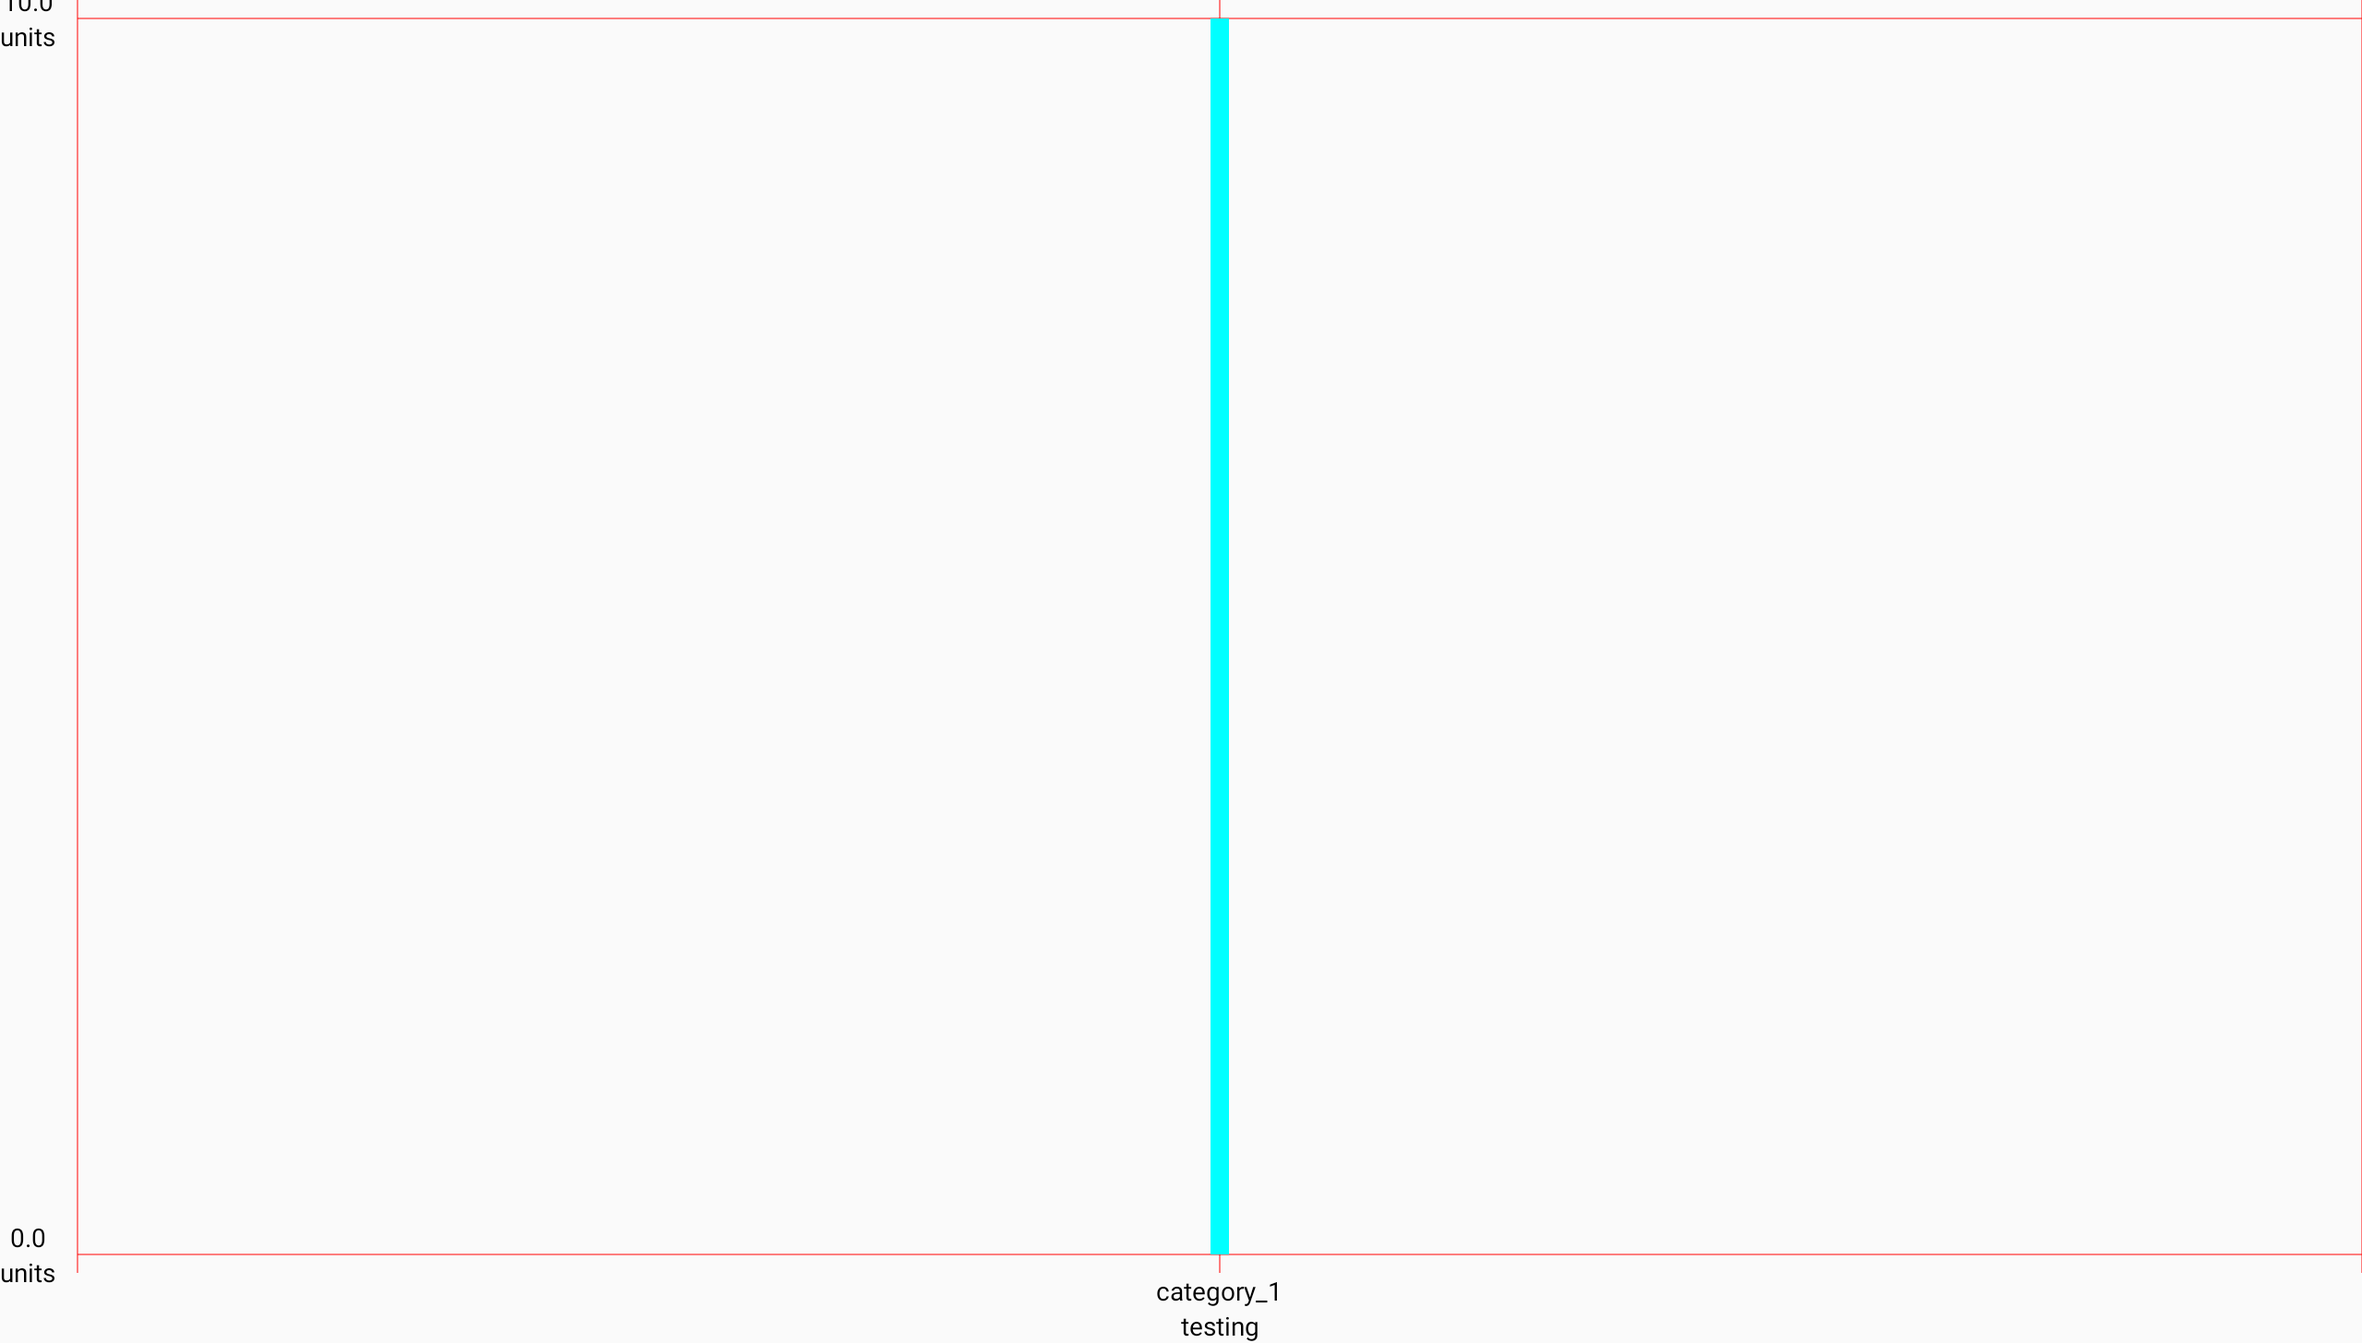
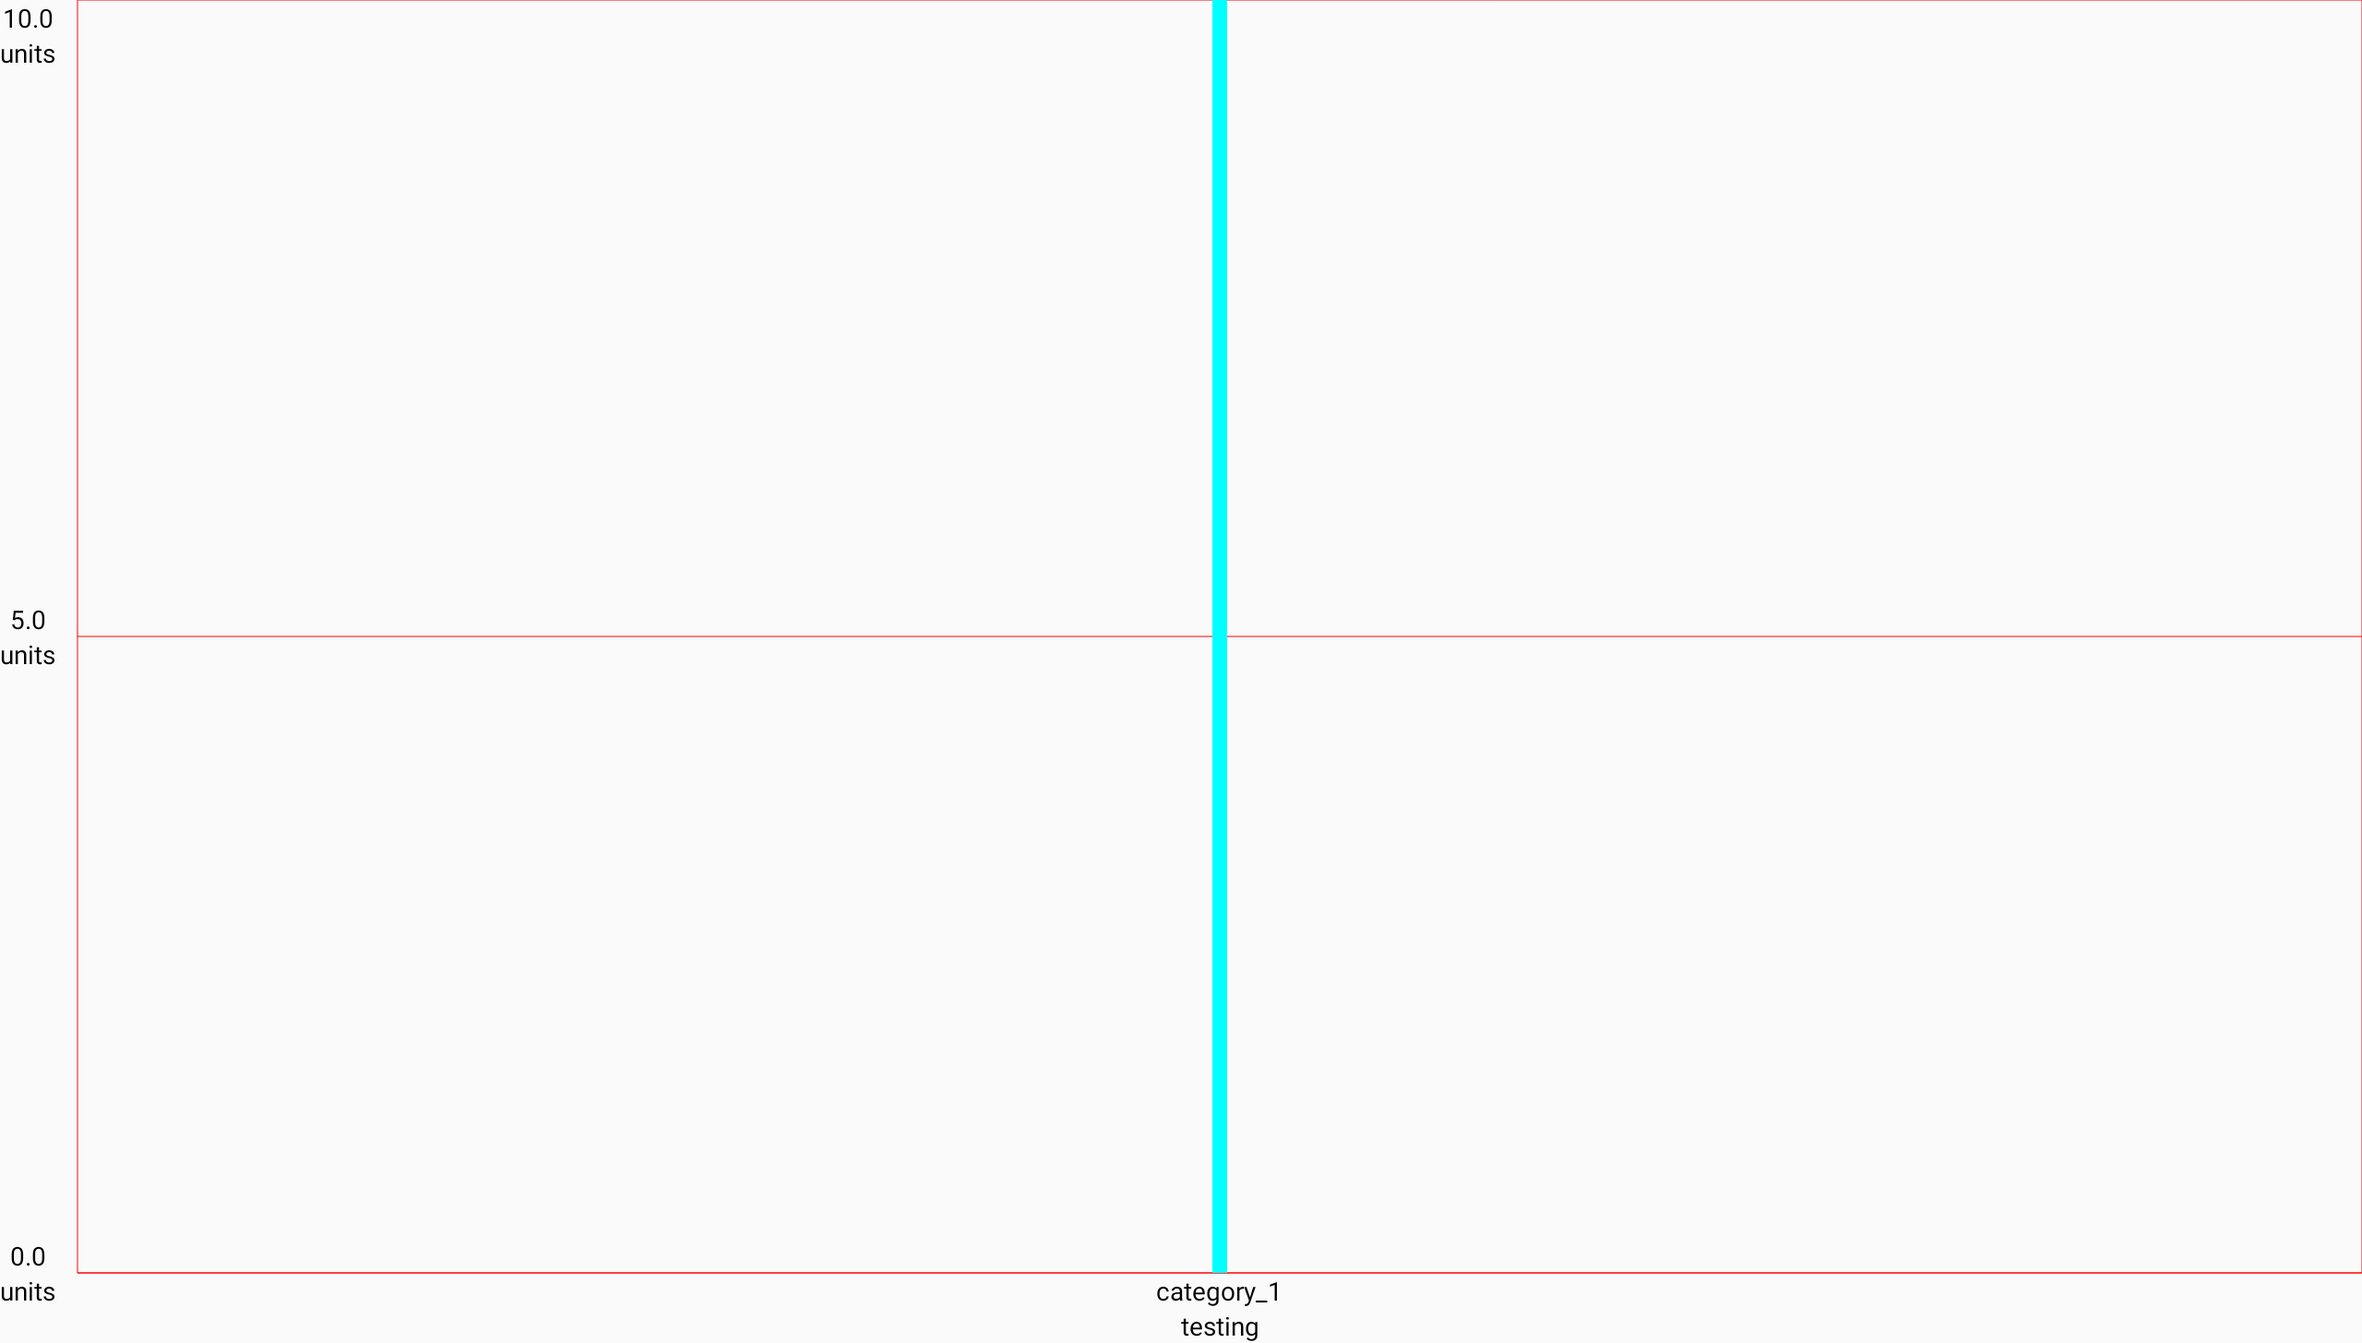
Fix bars staring from negative y values (#26)
* Fix issue with bars staring from negative y values

* Fix charts rounding

* Fixed line 0 calculation

* Change animation method in bar chart

* Change below zero rounding and update Barchart test screens

* Add comments for roundMinMaxClosestTo

* Fix tests

diff --git a/charts/src/commonMain/kotlin/com/netguru/multiplatform/charts/bar/BarChartDrawing.kt b/charts/src/commonMain/kotlin/com/netguru/multiplatform/charts/bar/BarChartDrawing.kt
@@ -4,18 +4,16 @@ import androidx.compose.ui.geometry.CornerRadius
 import androidx.compose.ui.geometry.Offset
 import androidx.compose.ui.geometry.Size
 import androidx.compose.ui.graphics.drawscope.DrawScope
-import kotlin.math.abs
+import com.netguru.multiplatform.charts.mapValueToDifferentRange
 
 internal fun DrawScope.drawBarChart(
     data: BarChartData,
     config: BarChartConfig,
     yAxisUpperValue: Float,
     yAxisLowerValue: Float,
-    verticalPadding: Float,
     valueScale: List<Float>,
+    yAxisZeroPosition: Float
 ) {
-    val canvasHeight = size.height
-
     val xAxisTickWidth = size.width / (data.categories.size * 2)
     val maxBarsCountInACluster = data.categories.maxOfOrNull { it.entries.size } ?: return
     val maximumThickness = config.thickness.toPx().coerceAtLeast(1f)
@@ -25,24 +23,32 @@ internal fun DrawScope.drawBarChart(
     val maxHorizontalSpacing = if (gapsCount > 0) freeSpaceInACluster / gapsCount else 0f
     val barsHorizontalSpacing = config.barsSpacing.toPx().coerceIn(0f, maxHorizontalSpacing)
 
-    val gridHeight = canvasHeight - 2 * verticalPadding
-    val yAxisZeroPosition = verticalPadding +
-        yAxisUpperValue / (yAxisUpperValue - yAxisLowerValue) * gridHeight
-
     data.categories.forEachIndexed { categoryIndex, category ->
         val clusterWidth = category.entries.size * barWidth +
             (category.entries.size - 1) * barsHorizontalSpacing
         val clusterXOffset = (categoryIndex * 2 + 1) * xAxisTickWidth - clusterWidth / 2
 
         category.entries.forEachIndexed { entryIndex, entry ->
-            val clusterHeight = gridHeight * valueScale[entryIndex]
-            val barHeight = abs(entry.y) / (yAxisUpperValue - yAxisLowerValue) * clusterHeight
+            val x = clusterXOffset + entryIndex * (barWidth + barsHorizontalSpacing)
+            val y = entry.y * valueScale[entryIndex]
+            val currentPosition = y.mapValueToDifferentRange(
+                yAxisLowerValue,
+                yAxisUpperValue,
+                size.height,
+                0f
+            )
+            val barHeight = if (currentPosition < yAxisZeroPosition) {
+                yAxisZeroPosition - currentPosition
+            } else {
+                currentPosition - yAxisZeroPosition
+            }
+
             drawRoundRect(
                 color = entry.color,
                 topLeft = Offset(
-                    x = clusterXOffset + entryIndex * (barWidth + barsHorizontalSpacing),
-                    y = if (entry.y >= 0) {
-                        yAxisZeroPosition - barHeight
+                    x = x,
+                    y = if (entry.y > 0) {
+                        currentPosition
                     } else {
                         yAxisZeroPosition
                     }

diff --git a/charts/src/commonMain/kotlin/com/netguru/multiplatform/charts/bar/BarChart.kt b/charts/src/commonMain/kotlin/com/netguru/multiplatform/charts/bar/BarChart.kt
@@ -40,7 +40,6 @@ import com.netguru.multiplatform.charts.theme.ChartTheme
  * @param yAxisLabel Composable to mark the values on the y-axis.
  * @param animation In the case of [ChartAnimation.Sequenced] items with the same index in each
  * category will animate together
- * @param maxHorizontalLinesCount Max number of lines that are allowed to draw for marking y-axis
  * values
  */
 @Composable
@@ -52,7 +51,6 @@ fun BarChart(
     xAxisLabel: @Composable (value: Any) -> Unit = GridDefaults.XAxisLabel,
     yAxisLabel: @Composable (value: Any) -> Unit = GridDefaults.YAxisLabel,
     animation: ChartAnimation = ChartAnimation.Simple(),
-    maxHorizontalLinesCount: Int = GridDefaults.NUMBER_OF_GRID_LINES,
 ) {
     val verticalLinesCount = remember(data) { data.maxX.toInt() + 1 }
     val horizontalLinesOffset =
@@ -94,17 +92,19 @@ fun BarChart(
                     .weight(1f)
                     .fillMaxWidth()
             ) {
+                val yAxisScale = YAxisScale(
+                    min = data.minY,
+                    max = data.maxY,
+                    maxTickCount = config.maxHorizontalLinesCount,
+                    roundClosestTo = config.roundMinMaxClosestTo,
+                )
                 val grid = measureChartGrid(
                     xAxisScale = FixedTicksXAxisScale(
                         min = data.minX,
                         max = data.maxX,
                         tickCount = verticalLinesCount - 1
                     ),
-                    yAxisScale = YAxisScale(
-                        min = data.minY,
-                        max = data.maxY,
-                        maxTickCount = maxHorizontalLinesCount - 1
-                    ),
+                    yAxisScale = yAxisScale,
                     horizontalLinesOffset = horizontalLinesOffset
                 )
                 verticalGridLines = grid.verticalLines
@@ -114,10 +114,10 @@ fun BarChart(
                 drawBarChart(
                     data = data,
                     config = config,
-                    yAxisUpperValue = grid.horizontalLines.last().value.toFloat(),
-                    yAxisLowerValue = grid.horizontalLines.first().value.toFloat(),
-                    verticalPadding = horizontalLinesOffset.toPx(),
+                    yAxisUpperValue = yAxisScale.max,
+                    yAxisLowerValue = yAxisScale.min,
                     valueScale = valueScale,
+                    yAxisZeroPosition = grid.zeroPosition.position,
                 )
             }
 

diff --git a/charts/src/commonMain/kotlin/com/netguru/multiplatform/charts/line/LineChart.kt b/charts/src/commonMain/kotlin/com/netguru/multiplatform/charts/line/LineChart.kt
@@ -62,6 +62,7 @@ val dashedPathEffect = PathEffect.dashPathEffect(floatArrayOf(5f, 5f), 0f)
  * @param animation Animation to use
  * @param maxVerticalLines Max number of lines, representing the x-axis values
  * @param maxHorizontalLines Max number of lines, representing the y-axis values
+ * @param roundMinMaxClosestTo Number to which min and max range will be rounded to
  */
 @OptIn(ExperimentalComposeUiApi::class)
 @Composable
@@ -76,6 +77,7 @@ fun LineChart(
     animation: ChartAnimation = ChartAnimation.Simple(),
     maxVerticalLines: Int = GridDefaults.NUMBER_OF_GRID_LINES,
     maxHorizontalLines: Int = GridDefaults.NUMBER_OF_GRID_LINES,
+    roundMinMaxClosestTo: Int = GridDefaults.ROUND_MIN_MAX_CLOSEST_TO,
 ) {
     var touchPositionX by remember { mutableStateOf(-1f) }
     var verticalGridLines by remember { mutableStateOf(emptyList<LineParameters>()) }
@@ -125,7 +127,8 @@ fun LineChart(
                             yAxisScale = YAxisScale(
                                 min = lineChartData.minY,
                                 max = lineChartData.maxY,
-                                maxTickCount = maxHorizontalLines - 1
+                                maxTickCount = maxHorizontalLines - 1,
+                                roundClosestTo = roundMinMaxClosestTo,
                             ),
                             horizontalLinesOffset = horizontalLinesOffset
                         )

diff --git a/charts/src/commonMain/kotlin/com/netguru/multiplatform/charts/grid/GridChartDrawing.kt b/charts/src/commonMain/kotlin/com/netguru/multiplatform/charts/grid/GridChartDrawing.kt
@@ -17,6 +17,12 @@ fun DrawScope.drawChartGrid(grid: ChartGrid, color: Color) {
             strokeWidth = 1f
         )
     }
+    drawLine(
+        color = color,
+        start = Offset(0f, grid.zeroPosition.position),
+        end = Offset(size.width, grid.zeroPosition.position),
+        strokeWidth = 1f
+    )
     grid.verticalLines.forEach {
         drawLine(
             color = color,
@@ -35,8 +41,8 @@ fun DrawScope.measureChartGrid(
 
     val horizontalLines = measureHorizontalLines(
         axisScale = yAxisScale,
-        startPosition = size.height - horizontalLinesOffset.toPx(),
-        endPosition = horizontalLinesOffset.toPx()
+        startPosition = size.height,
+        endPosition = 0f
     )
 
     val verticalLines = measureVerticalLines(
@@ -45,9 +51,23 @@ fun DrawScope.measureChartGrid(
         endPosition = size.width
     )
 
+    val zero = when {
+        yAxisScale.min > 0 -> yAxisScale.min
+        yAxisScale.max < 0 -> yAxisScale.max
+        else -> 0f
+    }
     return ChartGrid(
         verticalLines = verticalLines,
-        horizontalLines = horizontalLines
+        horizontalLines = horizontalLines,
+        zeroPosition = LineParameters(
+            zero.mapValueToDifferentRange(
+                yAxisScale.min,
+                yAxisScale.max,
+                size.height,
+                0f
+            ),
+            zero
+        )
     )
 }
 

diff --git a/charts/src/commonMain/kotlin/com/netguru/multiplatform/charts/grid/axisscale/YAxisScale.kt b/charts/src/commonMain/kotlin/com/netguru/multiplatform/charts/grid/axisscale/YAxisScale.kt
@@ -4,17 +4,36 @@ import kotlin.math.floor
 import kotlin.math.log10
 import kotlin.math.pow
 
-class YAxisScale(min: Float, max: Float, maxTickCount: Int) {
+class YAxisScale(
+    min: Float,
+    max: Float,
+    maxTickCount: Int,
+    roundClosestTo: Int,
+) {
     val tick: Float
     val min: Float
     val max: Float
 
     init {
-        val range = niceNum(max - min, false)
-        this.tick = niceNum(range / (maxTickCount), true)
+        this.min = if (!min.isNaN()) {
+            min.getClosest(roundClosestTo)
+        } else {
+            0f
+        }
+        this.max = if (!max.isNaN()) {
+            max.getClosest(roundClosestTo)
+        } else {
+            0f
+        }
 
-        this.min = if (!min.isNaN()) min else 0f
-        this.max = if (!max.isNaN()) max else 0f
+        val range = niceNum(this.max - this.min, false)
+        this.tick = niceNum(range / (maxTickCount), true)
+    }
+
+    private fun Float.getClosest(n: Int) = when {
+        this > 0f -> (((this.toInt() + n - 1) / n) * n).toFloat()
+        this < 0f -> (((this.toInt() - n + 1) / n) * n).toFloat()
+        else -> 0f
     }
 
     /**

diff --git a/charts/src/commonMain/kotlin/com/netguru/multiplatform/charts/bar/BarChartConfig.kt b/charts/src/commonMain/kotlin/com/netguru/multiplatform/charts/bar/BarChartConfig.kt
@@ -2,6 +2,7 @@ package com.netguru.multiplatform.charts.bar
 
 import androidx.compose.runtime.Immutable
 import androidx.compose.ui.unit.Dp
+import com.netguru.multiplatform.charts.grid.GridDefaults
 
 /**
  * The customization parameters for [BarChart]
@@ -9,10 +10,14 @@ import androidx.compose.ui.unit.Dp
  * @param thickness Width of a single bar
  * @param cornerRadius 0 for square bars, thickness/2 for fully rounded corners
  * @param barsSpacing The space between bars in a cluster
+ * @param maxHorizontalLinesCount Max number of lines that are allowed to draw for marking y-axis
+ * @param roundMinMaxClosestTo Number to which min and max range will be rounded to
  */
 @Immutable
 data class BarChartConfig(
     val thickness: Dp = BarChartDefaults.BAR_THICKNESS,
     val cornerRadius: Dp = BarChartDefaults.BAR_CORNER_RADIUS,
     val barsSpacing: Dp = BarChartDefaults.BAR_HORIZONTAL_SPACING,
+    val maxHorizontalLinesCount: Int = GridDefaults.NUMBER_OF_GRID_LINES,
+    val roundMinMaxClosestTo: Int = GridDefaults.ROUND_MIN_MAX_CLOSEST_TO,
 )

diff --git a/charts/src/commonMain/kotlin/com/netguru/multiplatform/charts/bar/BarChartWithLegend.kt b/charts/src/commonMain/kotlin/com/netguru/multiplatform/charts/bar/BarChartWithLegend.kt
@@ -20,7 +20,6 @@ import com.netguru.multiplatform.charts.theme.ChartTheme
 fun BarChartWithLegend(
     data: BarChartData,
     modifier: Modifier = Modifier,
-    maxHorizontalLinesCount: Int = GridDefaults.NUMBER_OF_GRID_LINES,
     animation: ChartAnimation = ChartAnimation.Simple(),
     colors: BarChartColors = ChartTheme.colors.barChartColors,
     config: BarChartConfig = BarChartConfig(),
@@ -32,7 +31,6 @@ fun BarChartWithLegend(
         BarChart(
             modifier = Modifier.weight(1f),
             data = data,
-            maxHorizontalLinesCount = maxHorizontalLinesCount,
             animation = animation,
             colors = colors,
             config = config,

diff --git a/example-app/android/src/androidTest/kotlin/com/netguru/multiplatform/charts/bar/BarWithLegendTest.kt b/example-app/android/src/androidTest/kotlin/com/netguru/multiplatform/charts/bar/BarWithLegendTest.kt
@@ -30,7 +30,8 @@ class BarWithLegendTest : ScreenshotTest {
                 config = BarChartConfig(
                     thickness = 8.dp,
                     cornerRadius = 0.dp,
-                    barsSpacing = 1.dp
+                    barsSpacing = 1.dp,
+                    maxHorizontalLinesCount = 2,
                 )
             )
         }
@@ -63,7 +64,6 @@ class BarWithLegendTest : ScreenshotTest {
                         Text(text = "units")
                     }
                 },
-                maxHorizontalLinesCount = 2,
                 legendItemLabel = {
                     Text(text = "Custom label for: $it")
                 }

diff --git a/example-app/android/src/androidTest/kotlin/com/netguru/multiplatform/charts/bar/BarTest.kt b/example-app/android/src/androidTest/kotlin/com/netguru/multiplatform/charts/bar/BarTest.kt
@@ -40,7 +40,8 @@ class BarTest : ScreenshotTest {
                 config = BarChartConfig(
                     thickness = 8.dp,
                     cornerRadius = 0.dp,
-                    barsSpacing = 1.dp
+                    barsSpacing = 1.dp,
+                    maxHorizontalLinesCount = 2,
                 ),
                 colors = ChartDefaults.chartColors(grid = Color.Red).barChartColors,
                 xAxisLabel = {
@@ -59,7 +60,6 @@ class BarTest : ScreenshotTest {
                         Text(text = "units")
                     }
                 },
-                maxHorizontalLinesCount = 2,
             )
         }
     }

diff --git a/charts/src/commonMain/kotlin/com/netguru/multiplatform/charts/grid/ChartGrid.kt b/charts/src/commonMain/kotlin/com/netguru/multiplatform/charts/grid/ChartGrid.kt
@@ -6,7 +6,8 @@ import kotlin.math.abs
 @Immutable
 data class ChartGrid(
     val verticalLines: List<LineParameters>,
-    val horizontalLines: List<LineParameters>
+    val horizontalLines: List<LineParameters>,
+    val zeroPosition: LineParameters,
 ) {
     val distanceBetweenVerticalLines: Float
         get() = abs(verticalLines[1].position - verticalLines[0].position)

diff --git a/charts/src/commonMain/kotlin/com/netguru/multiplatform/charts/grid/GridDefaults.kt b/charts/src/commonMain/kotlin/com/netguru/multiplatform/charts/grid/GridDefaults.kt
@@ -13,6 +13,7 @@ internal object GridDefaults {
 
     val HORIZONTAL_LINES_OFFSET = 10.dp
     const val NUMBER_OF_GRID_LINES = 5
+    const val ROUND_MIN_MAX_CLOSEST_TO = 10
 
     val YAxisLabel: @Composable (value: Any) -> Unit = { value ->
         Text(
